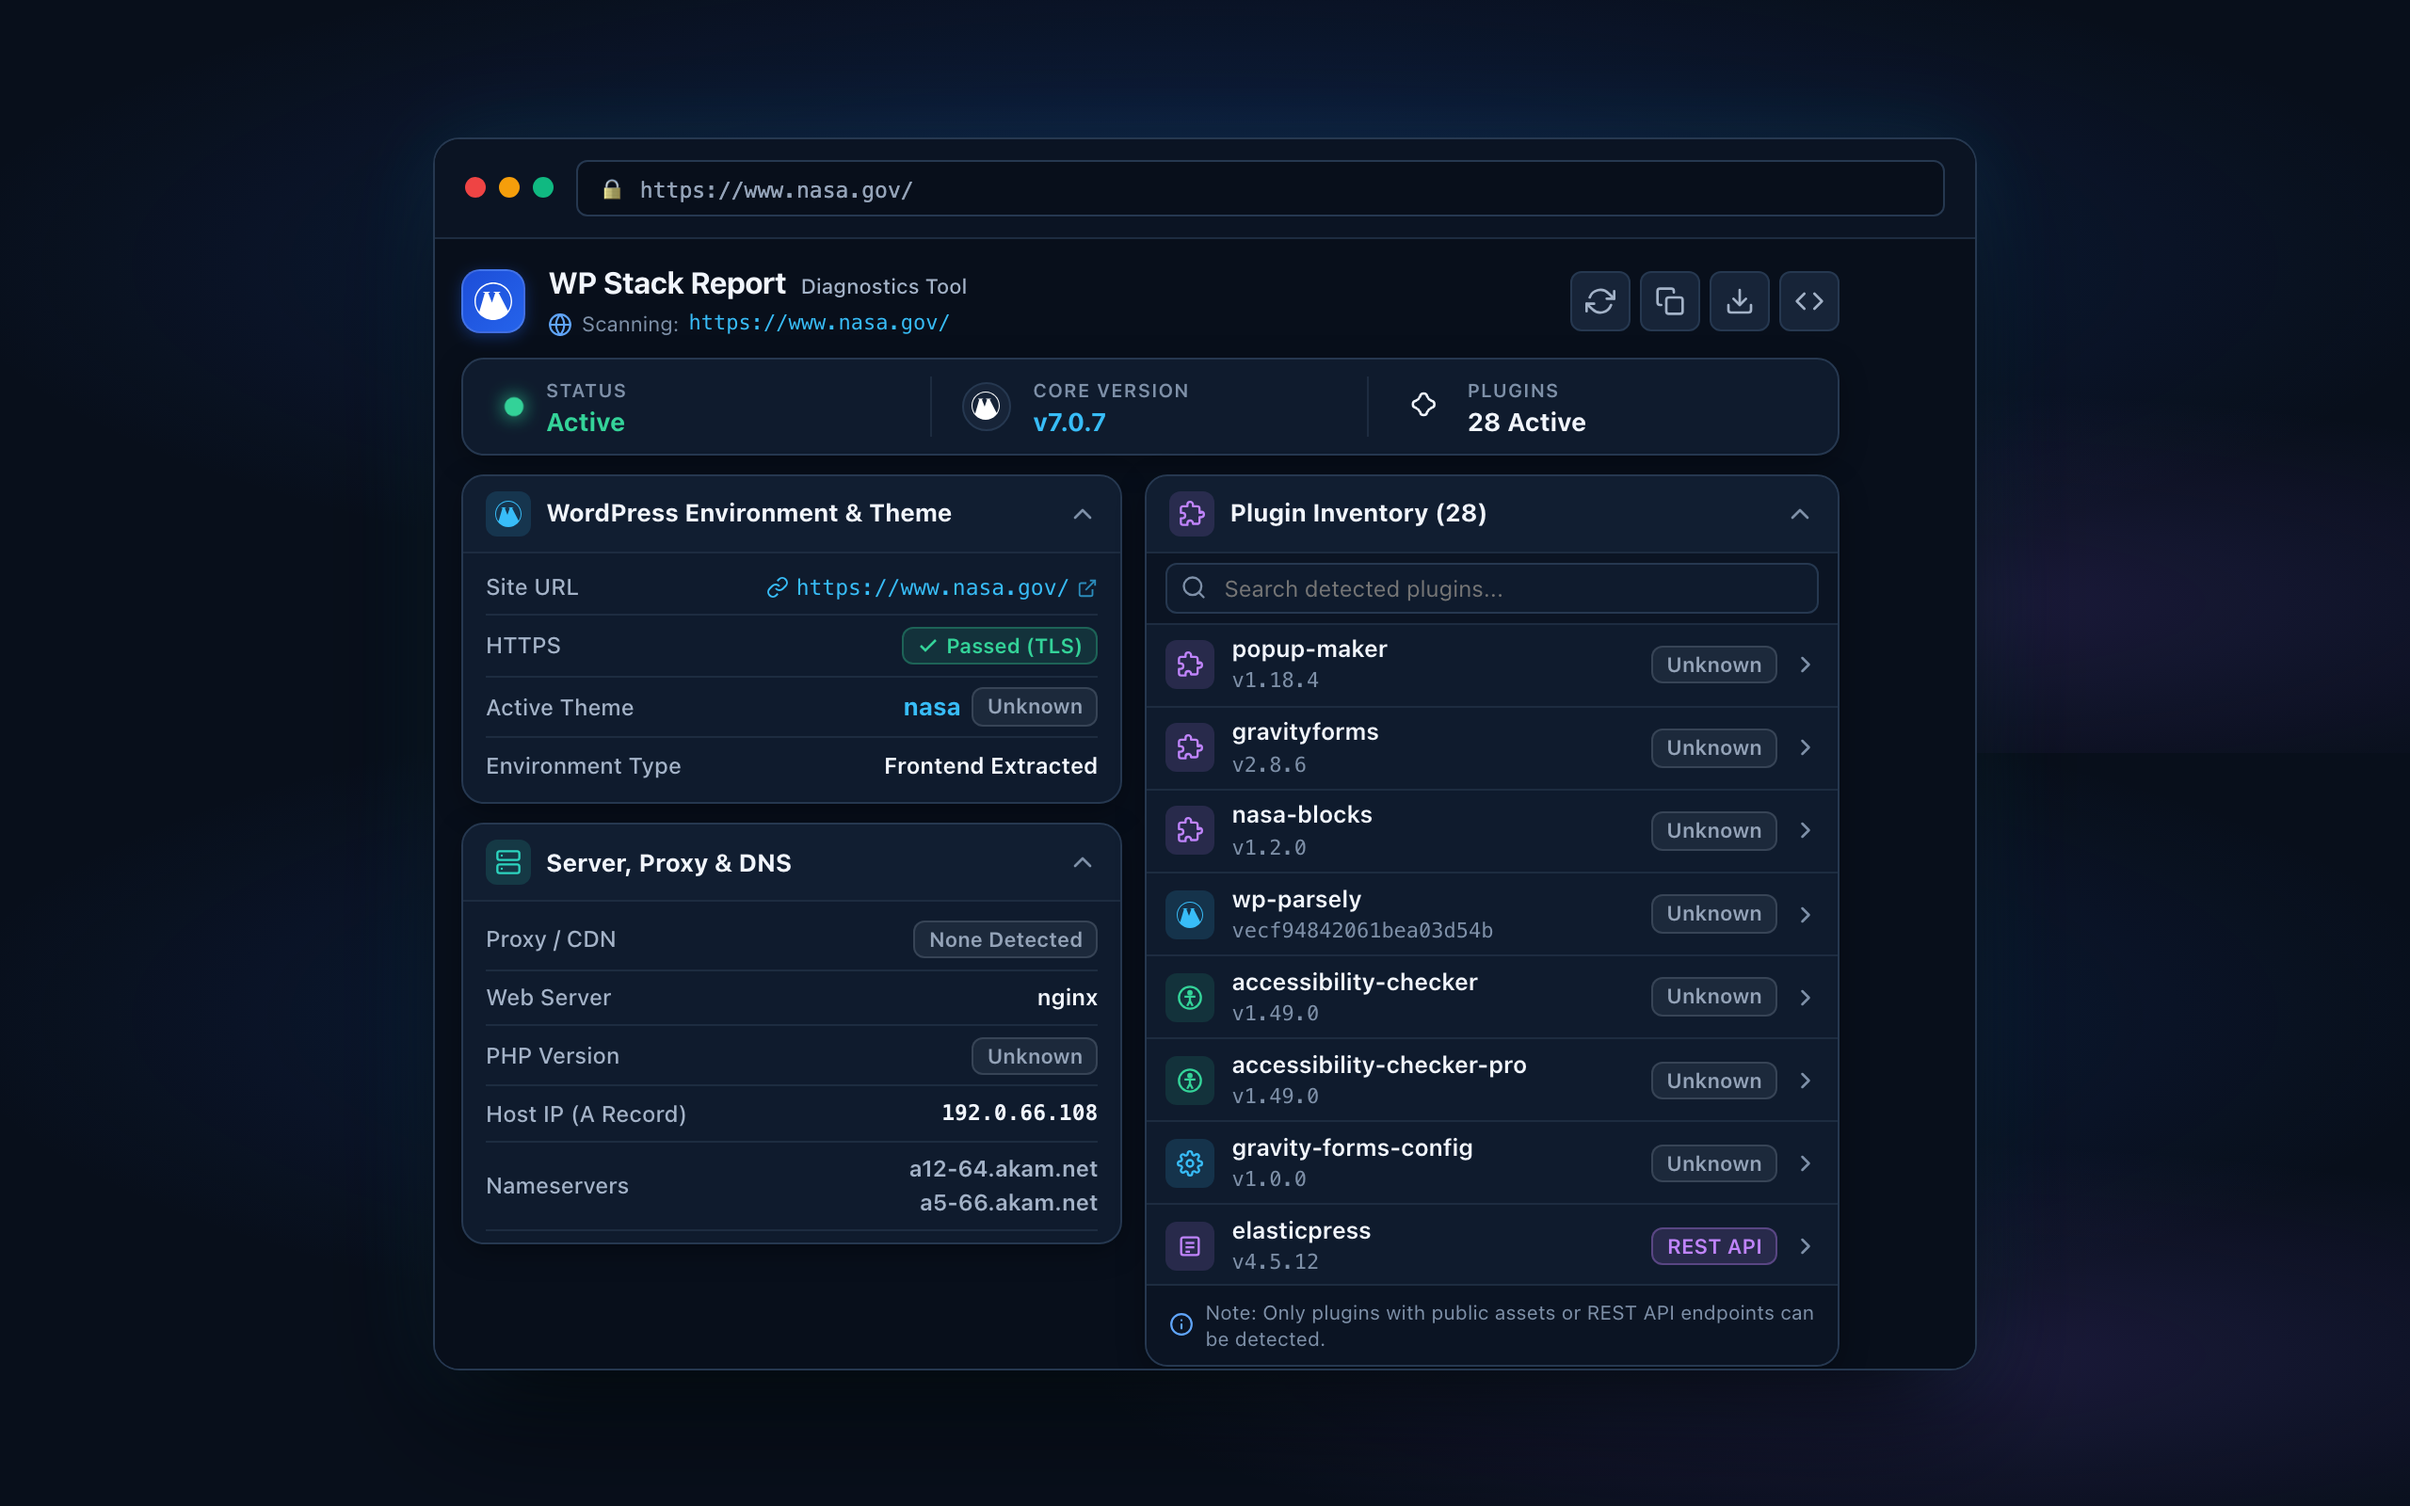
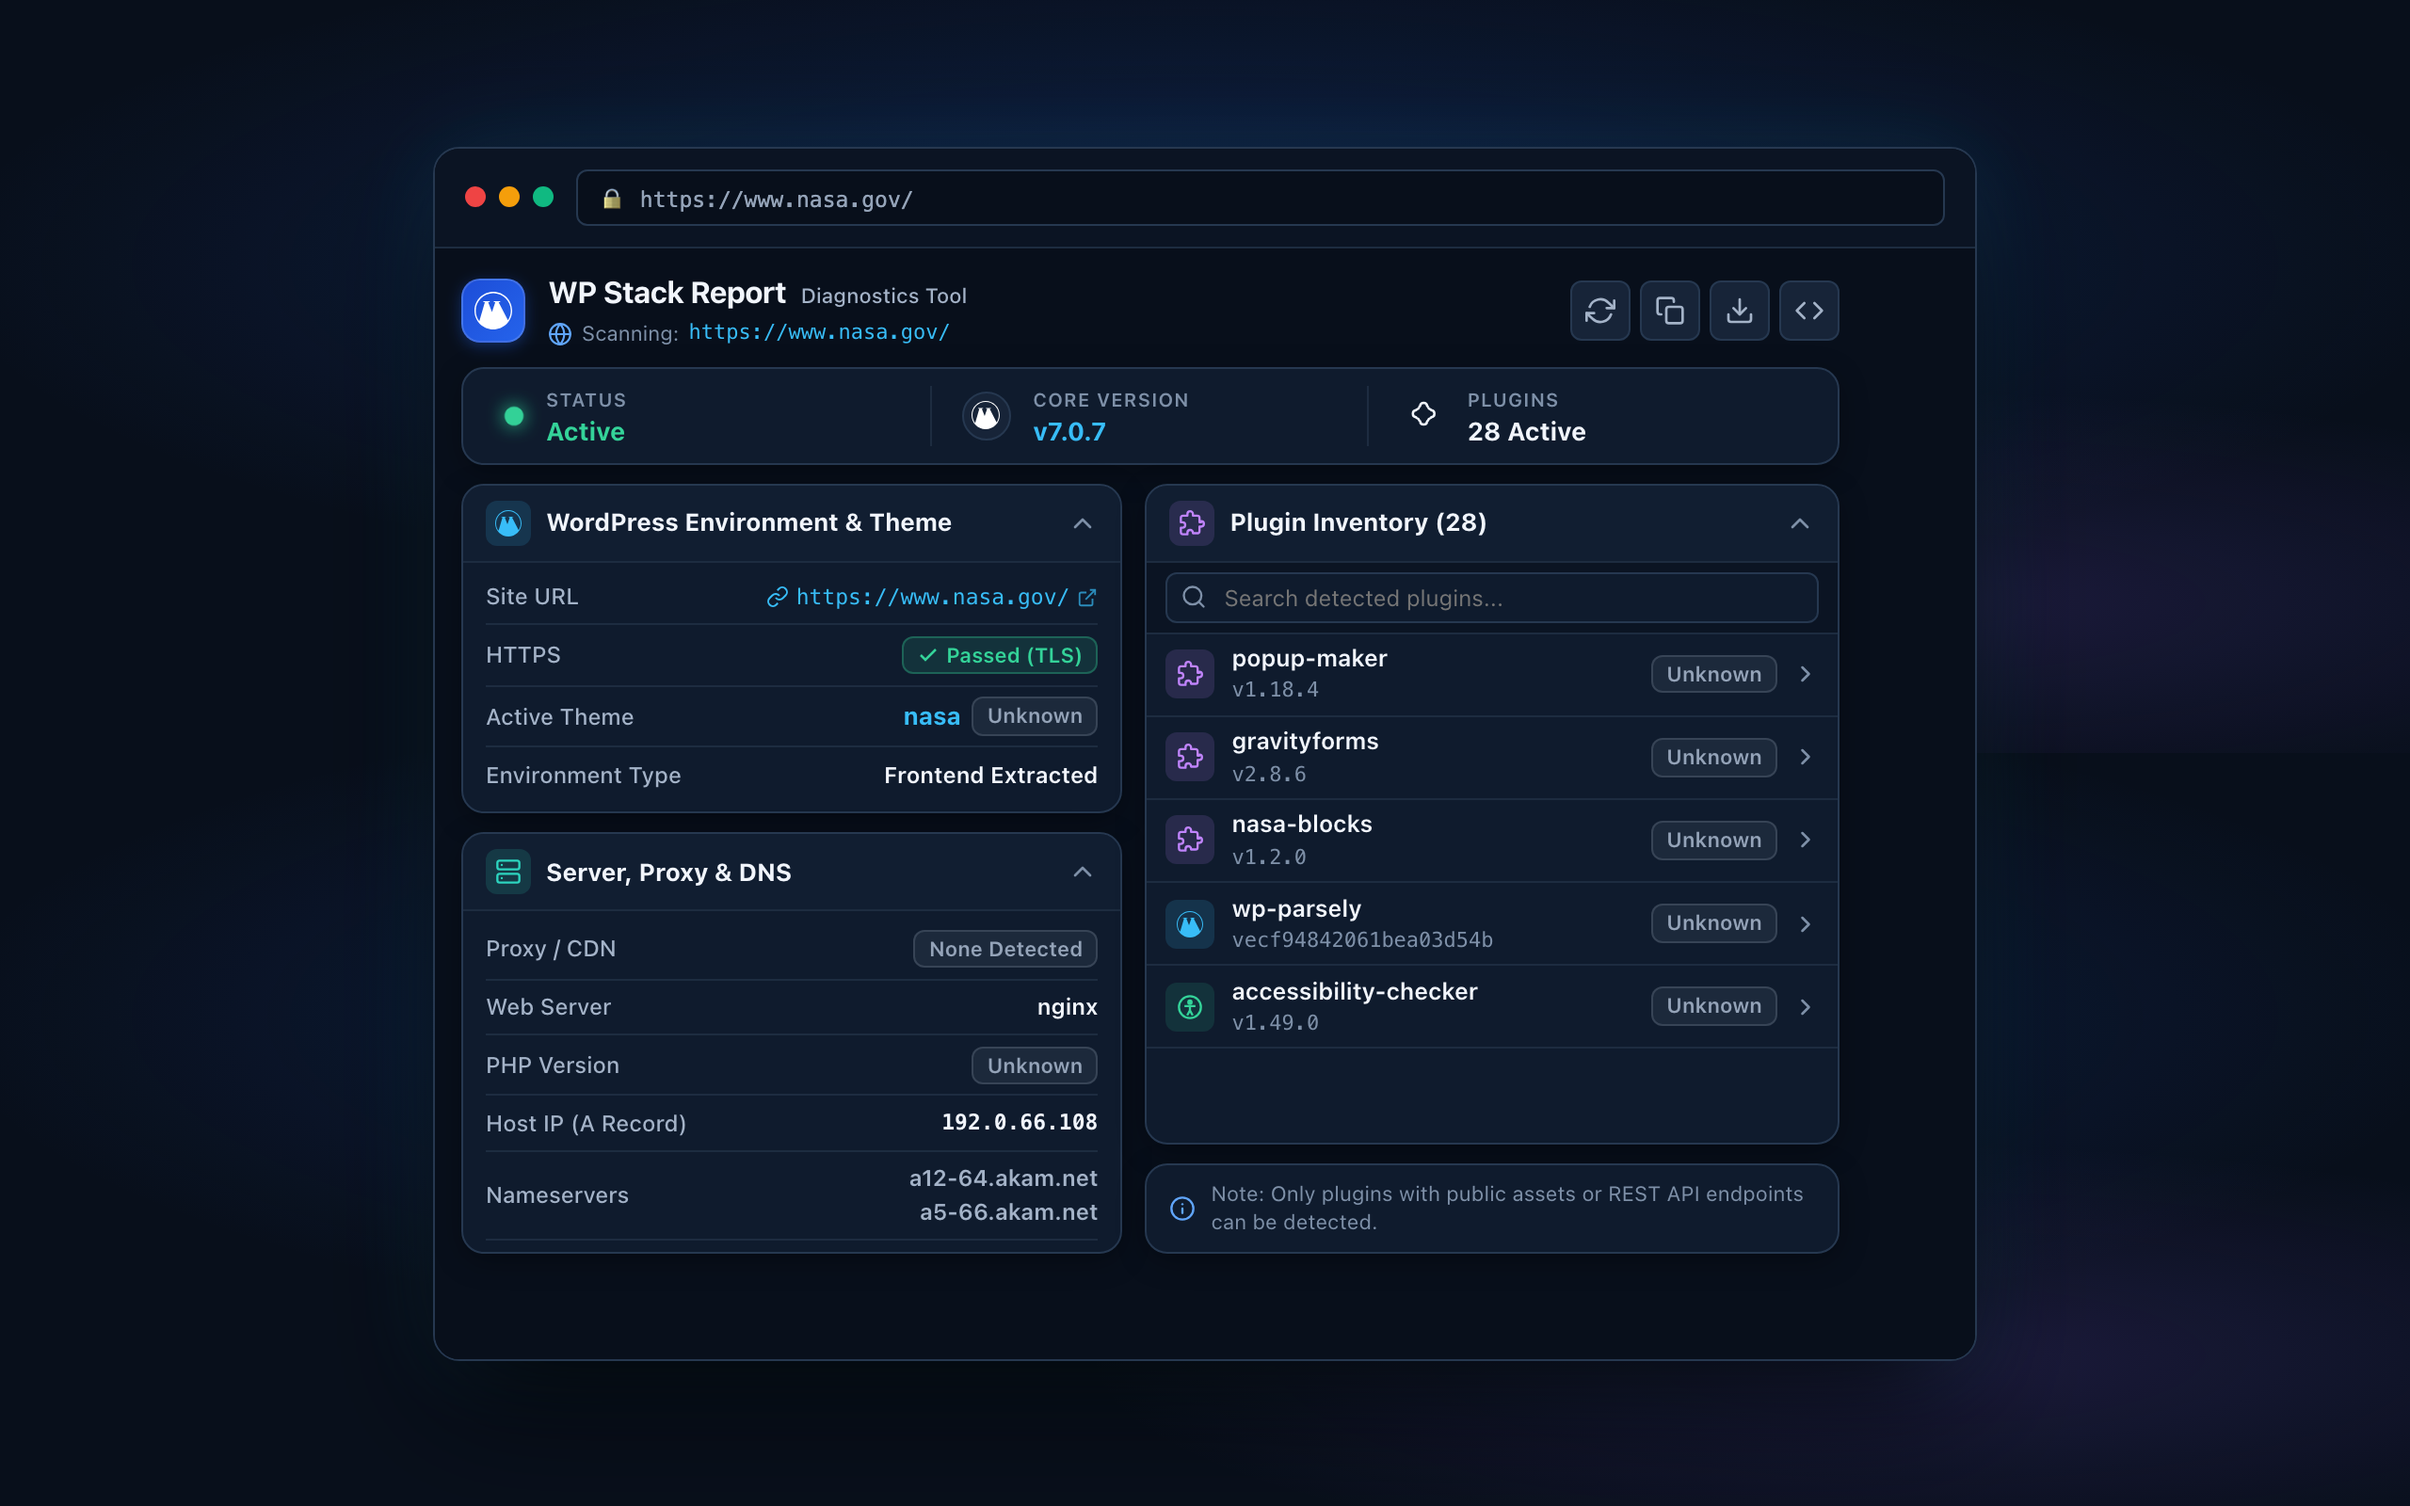
Position disclaimer note as a standalone card at the bottom of the 2nd column

Changed region(s): [[0.1875, 0.0938, 0.8125, 0.9062], [0.1875, 0.625, 0.2812, 0.75], [0.6875, 0.5938, 0.75, 0.7188]]

diff --git a/popup/popup.html b/popup/popup.html
@@ -219,14 +219,14 @@
 
                 <!-- Plugin Rows List -->
                 <ul id="plugins-list" class="plugin-rows-list"></ul>
-
-                <!-- Footer Disclaimer -->
-                <div class="plugin-footer-note">
-                  <svg width="13" height="13" viewBox="0 0 24 24" fill="none" stroke="currentColor" stroke-width="2" stroke-linecap="round" stroke-linejoin="round"><circle cx="12" cy="12" r="10"></circle><line x1="12" y1="16" x2="12" y2="12"></line><line x1="12" y1="8" x2="12.01" y2="8"></line></svg>
-                  <span>Note: Only plugins with public assets or REST API endpoints can be detected.</span>
-                </div>
               </div>
             </details>
+
+            <!-- Bottom of 2nd Column: Note -->
+            <div class="col-footer-note">
+              <svg width="14" height="14" viewBox="0 0 24 24" fill="none" stroke="currentColor" stroke-width="2" stroke-linecap="round" stroke-linejoin="round"><circle cx="12" cy="12" r="10"></circle><line x1="12" y1="16" x2="12" y2="12"></line><line x1="12" y1="8" x2="12.01" y2="8"></line></svg>
+              <span>Note: Only plugins with public assets or REST API endpoints can be detected.</span>
+            </div>
           </div>
 
         </div>

diff --git a/popup/popup.css b/popup/popup.css
@@ -396,6 +396,7 @@ body {
 .col-right {
   display: flex;
   flex-direction: column;
+  gap: 10px;
   height: 100%;
 }
 
@@ -634,7 +635,7 @@ body {
 .plugin-inventory-card {
   display: flex;
   flex-direction: column;
-  height: 100%;
+  flex: 1;
 }
 
 .plugin-card-body {
@@ -718,7 +719,7 @@ body {
   padding: 0;
   list-style: none;
   flex: 1;
-  max-height: 350px;
+  max-height: 220px;
   overflow-y: auto;
 }
 
@@ -868,20 +869,23 @@ body {
   font-size: 12px;
 }
 
-/* Plugin Footer */
-.plugin-footer-note {
-  padding: 7px 12px;
-  font-size: 10.5px;
-  color: var(--text-muted);
-  background: var(--bg-input);
-  border-top: 1px solid var(--border-subtle);
+/* 2nd Column Bottom Note Card */
+.col-footer-note {
   display: flex;
   align-items: center;
-  gap: 6px;
+  gap: 8px;
+  padding: 8px 12px;
+  background: var(--bg-card);
+  border: 1px solid var(--border-primary);
+  border-radius: var(--radius-lg);
+  font-size: 11px;
+  color: var(--text-muted);
   line-height: 1.35;
+  box-shadow: var(--shadow-card);
+  flex-shrink: 0;
 }
 
-.plugin-footer-note svg {
+.col-footer-note svg {
   flex-shrink: 0;
   color: var(--color-detected);
 }
